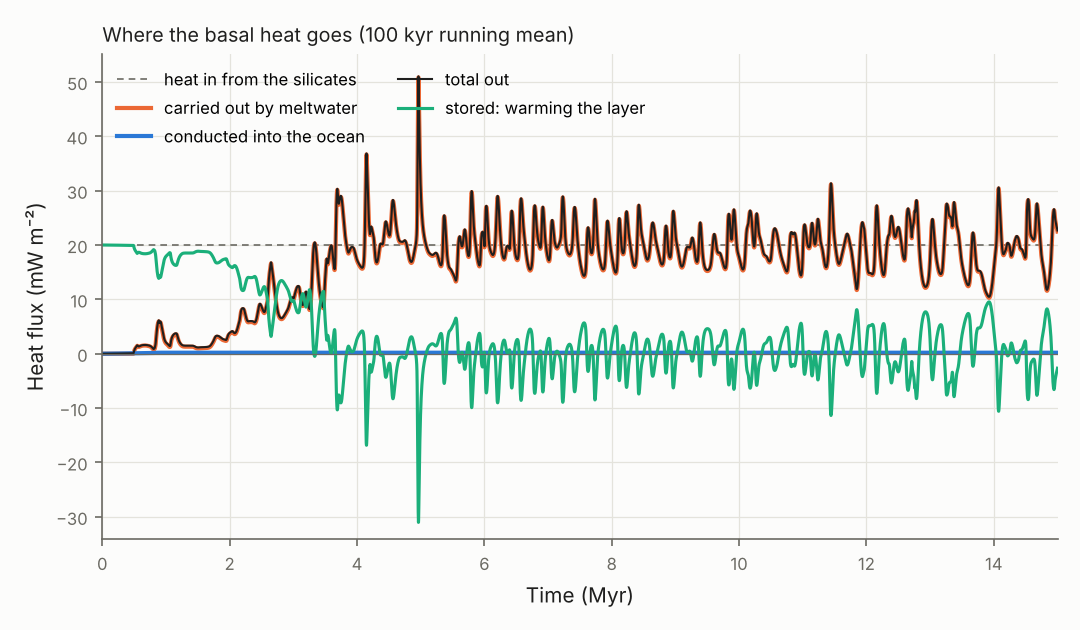
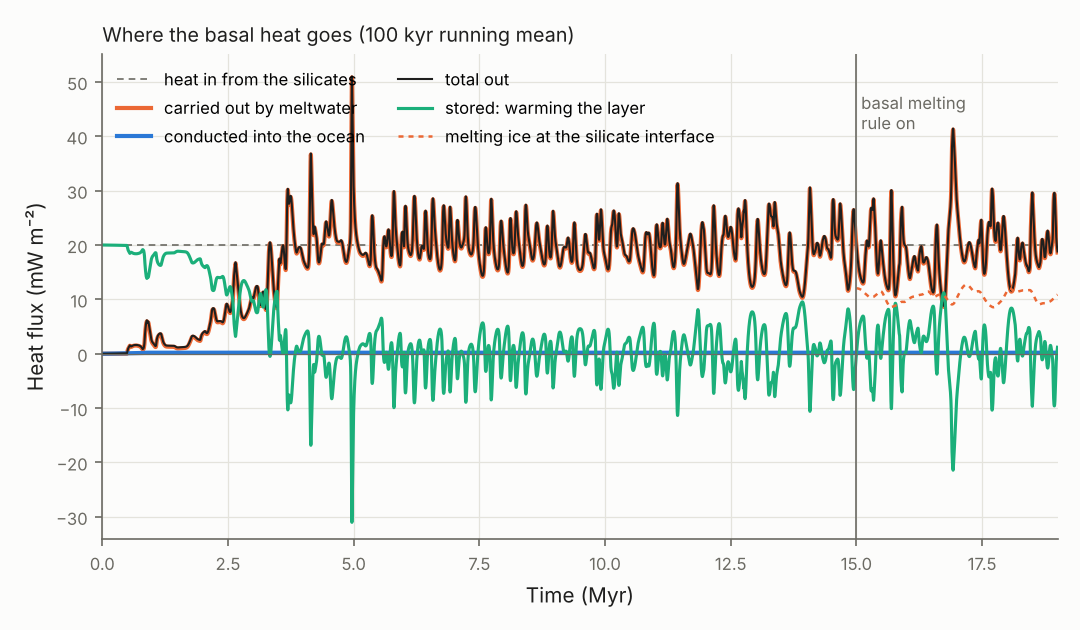
Stage 4d: basal melting rule at the silicate interface; 19 Myr reference run

diff --git a/src/ganymede/twophase2d.py b/src/ganymede/twophase2d.py
@@ -90,7 +90,7 @@ def ice_velocity(g, theta, phi, sc, solver="direct"):
     return vx, vz, eta_c
 
 
-def energy_matrix(g, vx, vz, dt, Qb):
+def energy_matrix(g, vx, vz, dt, Qb, capped=None):
     """Implicit step  (theta' - theta)/dt + div(v theta) - lap theta = 0, upwind advection.
     Bottom: -dtheta/dz = Qb; top: theta = 0; sides insulating. Returns A, b_extra."""
     nx, nz, dx, dz = g.nx, g.nz, g.dx, g.dz
@@ -114,9 +114,38 @@ def energy_matrix(g, vx, vz, dt, Qb):
         put(r, nb, np.minimum(un, 0) / h - 1 / h**2)
     put(idx[-1], idx[-1], 2 / dz**2)                    # top wall theta = 0 (ghost)
     b = np.zeros(nx * nz)
-    b[idx[0]] = Qb / dz                                 # bottom heat flux
+    capped = np.zeros(nx, bool) if capped is None else capped
+    b[idx[0][~capped]] = Qb / dz                        # bottom heat flux
+    put(idx[0][capped], idx[0][capped], 2 / dz**2)      # capped columns: interface held at theta_m = 1
+    b[idx[0][capped]] = 2 * 1.0 / dz**2
     A = sp.csc_matrix((np.concatenate(V), (np.concatenate(R), np.concatenate(C))), shape=(nx * nz,) * 2)
     return A, b
+
+
+def energy_step(g, vx, vz, theta, dt, Qb, basal_cap=True):
+    """Implicit energy step with the basal interface capped at the melting point.
+
+    The silicate interface cannot be hotter than T_m. Where the flux condition would put it
+    above (theta_0 + Qb dz/2 > 1), the interface is held at theta = 1 instead, the ice conducts
+    2 (1 - theta_0)/dz into the column, and the rest of the basal heat melts ice at the interface.
+    The set of capped columns is found iteratively (an active-set loop, usually 1-3 passes).
+    Returns theta and the basal melting heat flux per column (non-dimensional, >= 0)."""
+    nx, nz, dz = g.nx, g.nz, g.dz
+    capped = np.zeros(nx, bool)
+    for _ in range(20):
+        A, b = energy_matrix(g, vx, vz, dt, Qb, capped)
+        new = spsolve(A, theta.ravel() / dt + b).reshape(nz, nx)
+        if not basal_cap:
+            return new, np.zeros(nx)
+        conducted = 2 * (1.0 - new[0]) / dz
+        want = capped.copy()
+        want[~capped & (new[0] + Qb * dz / 2 > 1.0)] = True     # flux would overheat the interface
+        want[capped & (conducted > Qb)] = False                 # interface no longer needs the cap
+        if np.array_equal(want, capped):
+            break
+        capped = want
+    melt = np.where(capped, Qb - conducted, 0.0)
+    return new, melt
 
 
 def phase_change(theta, phi, theta_m, sc):
@@ -162,7 +191,7 @@ def percolate2d(phi, dz, dt, p, vscale, cfl=0.9):
 
 def run(p=None, nx=200, nz=100, mu0=1e15, t_end_myr=20.0, cfl=0.5, snap_myr=(), log_every=20,
         theta0=None, phi0=None, verbose=True, wall_limit=None, solver="direct",
-        t0_myr=0.0):
+        t0_myr=0.0, basal_cap=True, dt_max=1e-4):
     """Time-dependent two-phase convection. Returns dict with grid, scales, history, snapshots."""
     p = p or HPIce()
     sc = Scales(p, mu0=mu0)
@@ -184,9 +213,9 @@ def run(p=None, nx=200, nz=100, mu0=1e15, t_end_myr=20.0, cfl=0.5, snap_myr=(), 
     while t < t_end - 1e-15:
         vx, vz, eta = ice_velocity(g, theta, phi, sc, solver=solver)
         vmax = max(np.abs(vx).max(), np.abs(vz).max(), 1e-12)
-        dt = min(cfl * min(g.dx, g.dz) / vmax, t_end - t, 1e-4)
-        A, b = energy_matrix(g, vx, vz, dt, sc.Qb)
-        theta = spsolve(A, theta.ravel() / dt + b).reshape(nz, nx)
+        dt = min(cfl * min(g.dx, g.dz) / vmax, t_end - t, dt_max)
+        theta, melt = energy_step(g, vx, vz, theta, dt, sc.Qb, basal_cap=basal_cap)
+        phi[0] += sc.S * melt * dt / g.dz                # basal melt goes into the bottom cell
         q_top = 2 * theta[-1] / g.dz                     # -dtheta/dz at the top, per column
         theta, phi = phase_change(theta, phi, theta_m, sc)
         phi = advect_porosity(g, phi, vx, vz, dt)
@@ -200,7 +229,10 @@ def run(p=None, nx=200, nz=100, mu0=1e15, t_end_myr=20.0, cfl=0.5, snap_myr=(), 
         # dimensional diagnostics: heat flux [W/m^2] = nondim flux * k dT / H
         qd = p.k * sc.dT / p.H
         rec = dict(t_myr=t * sc.t / YEAR / 1e6, step=step,
-                   q_cond=q_top.mean() * qd, q_water=w.sum() * g.dx / sc.S / g.L / dt * qd,
+                   q_cond=q_top.mean() * qd, q_basal_melt=melt.mean() * qd,
+                   basal_wet=float(np.mean(phi[0] > p.phi_bg + 1e-6)),
+                   basal_capped=float(np.mean(melt > 0)),
+                   q_water=w.sum() * g.dx / sc.S / g.L / dt * qd,
                    vrms_cm_yr=vrms(vx, vz) * sc.v * YEAR * 100,
                    phi_mean=phi.mean(), phi_max=phi.max(),
                    temperate=float(np.mean(theta >= theta_m - 1e-9)),
@@ -213,7 +245,7 @@ def run(p=None, nx=200, nz=100, mu0=1e15, t_end_myr=20.0, cfl=0.5, snap_myr=(), 
             snaps_left.pop(0)
         if verbose and step % log_every == 0:
             print(f"step {step:5d} t={rec['t_myr']:7.3f} Myr  q_cond={rec['q_cond']*1e3:6.2f} "
-                  f"q_water={rec['q_water']*1e3:6.2f} mW/m2  vrms={rec['vrms_cm_yr']:.3g} cm/yr  "
+                  f"q_water={rec['q_water']*1e3:6.2f} basal_melt={rec['q_basal_melt']*1e3:5.2f} mW/m2  wet_base={rec['basal_wet']:.2f}  vrms={rec['vrms_cm_yr']:.3g} cm/yr  "
                   f"phi_mean={rec['phi_mean']*100:.3f}% max={rec['phi_max']*100:.2f}%  temperate={rec['temperate']:.3f}  "
                   f"T_mean={rec['T_mean']:.2f}  Eerr={rec['energy_error']:.1e}  wall={time.time()-w0:.0f}s", flush=True)
         if wall_limit and time.time() - w0 > wall_limit:

diff --git a/tests/test_twophase.py b/tests/test_twophase.py
@@ -110,3 +110,22 @@ def test_2d_stag_solver_matches_direct():
     rhs[g.n_vx:g.n_vx + g.n_vz] = _centre_to_vz(-sc.Ra * theta - sc.Rphi * phi).ravel()
     vx_free, _, _ = unpack(g, spsolve(A, rhs))
     assert np.abs(vx1[0]).mean() < 0.5 * np.abs(vx_free[0]).mean()
+
+
+@pytest.mark.slow
+def test_2d_without_convection_reproduces_column():
+    """With a huge viscosity (no flow) the 2D model with the basal melting rule must reproduce
+    the 1D column: melt reaches the ocean when the energy balance says, and at steady state the
+    basal heat leaves as meltwater."""
+    from ganymede.twophase2d import Scales, run
+    sc = Scales(P, mu0=1e25)
+    r = run(P, nx=4, nz=50, mu0=1e25, t_end_myr=18, verbose=False, dt_max=25e3 * YEAR / sc.t)
+    h = r["hist"]
+    t = np.array([x["t_myr"] for x in h])
+    qw = np.array([x["q_water"] for x in h])
+    _, t_pred = front_height_energy_balance(0.0, P)
+    assert t[np.argmax(qw > 1e-3)] == pytest.approx(t_pred / YEAR / 1e6, rel=0.02)
+    q_cond_melting_curve = P.k * (P.Tm_bot - P.Tm_top) / P.H
+    assert qw[-1] + h[-1]["q_cond"] == pytest.approx(P.q_s, rel=2e-3)
+    assert h[-1]["q_cond"] == pytest.approx(q_cond_melting_curve, rel=0.05)
+    assert max(abs(x["energy_error"]) for x in h) < 1e-10

diff --git a/scripts/hp_convection.py b/scripts/hp_convection.py
@@ -127,6 +127,16 @@ def cmd_plot(a):
     ax.plot(t, smooth(qw) + qc, color=INK, lw=1, label="total out")
     ax.plot(t, par["qs"] - smooth(qw) - qc, color="#1baf7a", lw=1.5, label="stored: warming the layer")
     ax.set_xlim(0, t[-1])
+    if any("q_basal_melt" in x for x in h):           # runs with the basal melting rule
+        on = np.array(["q_basal_melt" in x for x in h])
+        qb = np.array([x["q_basal_melt"] for x in h if "q_basal_melt" in x]) * 1e3
+        ax.plot(t[on], smooth(qb), color="#eb6834", lw=1.2, ls=(0, (2, 2)),
+                label="melting ice at the silicate interface")
+        if not on[0]:
+            t_on = t[on][0]
+            ax.axvline(t_on, color=MUTED, lw=0.8)
+            ax.text(t_on, par["qs"] * 2.4, " basal melting\n rule on", color=MUTED,
+                    fontsize=8, va="top")
     stored = par["qs"] - smooth(qw) - qc
     ax.set_ylim(min(0, stored.min() * 1.1), max(par["qs"], (smooth(qw) + qc).max()) * 1.08)
     ax.axhline(0, color=MUTED, lw=0.6)

diff --git a/README.md b/README.md
@@ -22,7 +22,7 @@ A readable, tested interior-structure and convection model for **Ganymede**, wri
 | 4a | Water percolation through ice, zero compaction length (Kalousová et al. 2018, Eq. 1c–d), 1D | Exact Riemann solutions (shock and rarefaction), converging with resolution; mass conserved to 1e-15 | ✅ |
 | 4b | Temperate-ice energy: melting, freezing, T ≤ T_m (operator split), 1D | Heated half-space (analytic); total energy (sensible + latent) conserved to 1e-11 | ✅ |
 | 4c | Non-convecting HP ice column: melt generation, percolation, refreezing | Melt-front arrival vs. energy balance (0.1 %); steady state q_s = conduction + latent heat of extracted water | ✅ |
-| 4d′ | 2D two-phase convection prototype (incompressible matrix, upwind advection), Kalousová et al. (2018) setup | Energy conserved to 1e-10 over 15 Myr; top temperate layer 17 km vs. her 16 km; basal melt layer not yet resolved | ✅ prototype |
+| 4d′ | 2D two-phase convection prototype (incompressible matrix, upwind advection), Kalousová et al. (2018) setup | Energy conserved to 1e-10 over 19 Myr; top temperate layer 17–18 km vs. her 16 km; basal melting rule reproduces the 1D column; basal layer thinner than a cell | ✅ prototype |
 | 4d | Two-phase convection in 2D: mixture Stokes with melt source and bulk-viscosity term, porosity advection, temperate energy | Reproduce Kalousová et al. (2018) reference run | ⬜ |
 
 ## First results (pure-water H₂O layer, self-consistent with M and C/MR²)
@@ -85,7 +85,7 @@ This is the no-convection end-member, a test bed for the two-phase pieces. With 
 
 ### Two-phase convection in the high-pressure ice layer (Stage 4d, prototype)
 
-Kalousová et al. (2018) reference setup in 2D: 200 km of ice VI (aspect 2), 20 mW m⁻² from the silicates, μ₀ = 10¹⁵ Pa s, percolation threshold 1 %, starting at the ocean-interface melting point. Hot plumes rise from the silicate interface; where ice reaches its melting point it melts, the water percolates up and leaves into the ocean, and water that meets colder ice refreezes. 64 × 128 cells (3 km), 15 Myr.
+Kalousová et al. (2018) reference setup in 2D: 200 km of ice VI (aspect 2), 20 mW m⁻² from the silicates, μ₀ = 10¹⁵ Pa s, percolation threshold 1 %, starting at the ocean-interface melting point. Hot plumes rise from the silicate interface; where ice reaches its melting point it melts, the water percolates up and leaves into the ocean, and water that meets colder ice refreezes. 64 × 128 cells (3 km), 19 Myr; the basal melting rule (below) switched on at 15 Myr.
 
 ![T − T_m and porosity snapshots](figures/hp_convection_snapshots.png)
 
@@ -93,17 +93,17 @@ Kalousová et al. (2018) reference setup in 2D: 200 km of ice VI (aspect 2), 20 
 
 | | This model | Kalousová et al. (2018), run 1 |
 |---|---|---|
-| Statistical steady state reached | ~4 Myr (mean T constant at 311.0 K from then on) | ~10 Myr |
+| Statistical steady state reached | ~4 Myr (mean T 311.0–311.2 K from then on) | ~10 Myr |
 | Heat leaving as meltwater | 98–99 % of q_s; conduction 0.18 mW m⁻² | "the majority" (conduction ~2 orders of magnitude smaller) |
-| Top temperate layer | 16.5–17.8 km, ~0.9 % water | ~16 km, φ_av ~1 % |
+| Top temperate layer | 16.5–18 km, ~0.9 % water | ~16 km, φ_av ~1 % |
 | Interior | ~10 K below the melting point; melt only in plume heads | "well below the melting point"; melt in some plume heads |
-| Thin temperate layer at the silicate interface | **missing** | present, φ ≲ 1 % |
+| Melting at the silicate interface | ~half the basal heat (10.6 of 20 mW m⁻²) melts ice at the interface; the water refreezes within the first 3 km cell, so the layer is thinner than one cell | thin temperate layer, T_av = T_m, φ ≲ 1 % |
 
 - First melt reaches the ocean after ~0.5 Myr, and after ~4 Myr essentially all the basal heat leaves as meltwater, in bursts as plume heads arrive.
 - In a conductive layer (Stage 4c) the same heat takes 15 Myr to open a path to the ocean; convection does it ~30 times faster.
-- The missing basal melt is a resolution problem: with a 3 km bottom cell and q_s fixed, the interface is ~20 K hotter than the first cell centre, so the interface would be above the melting point while every cell centre stays below it. Kalousová et al. refine to 1 km at the bottom.
+- Basal melting rule: the silicate interface cannot be hotter than its melting point. Where the fixed heat flux would push it above, the interface is held at T_m and the heat the ice cannot conduct away melts ice there (found column by column with an active-set loop; exact energy conservation kept). Without it, the 3 km bottom cell hid an interface ~20 K above melting. With convection switched off, the 2D model with this rule reproduces the 1D column (melt reaches the ocean at 14.97 vs. 15.14 Myr).
 
-Prototype limitations (Stage 4d proper removes them): the ice matrix is incompressible (no volume change on melting, no bulk-viscosity term); first-order upwind advection; 3 km cells (bottom boundary layer barely resolved). The Stokes solve uses the PETSc DMStag multigrid solver (no-slip bottom added): 0.2 s at 64 × 128, 1.1 s at 128 × 256, 6.2 s at 256 × 512, matching the direct solver to 4e-7. Reproduce with `python scripts/hp_convection.py run --t_end 15` then `python scripts/hp_convection.py plot results/hp_convection_ref.pkl --times 1 3 10 15 --phimax 1.5` (continue a run with `--restart`).
+Prototype limitations (Stage 4d proper removes them): the ice matrix is incompressible (no volume change on melting, no bulk-viscosity term); first-order upwind advection; 3 km cells (bottom boundary layer barely resolved). The Stokes solve uses the PETSc DMStag multigrid solver (no-slip bottom added): 0.2 s at 64 × 128, 1.1 s at 128 × 256, 6.2 s at 256 × 512, matching the direct solver to 4e-7. Reproduce with `python scripts/hp_convection.py run --t_end 15` then `python scripts/hp_convection.py plot results/hp_convection_ref.pkl --times 1 3 10 19 --phimax 1.5` (continue a run with `--restart`).
 
 ## Install
 
